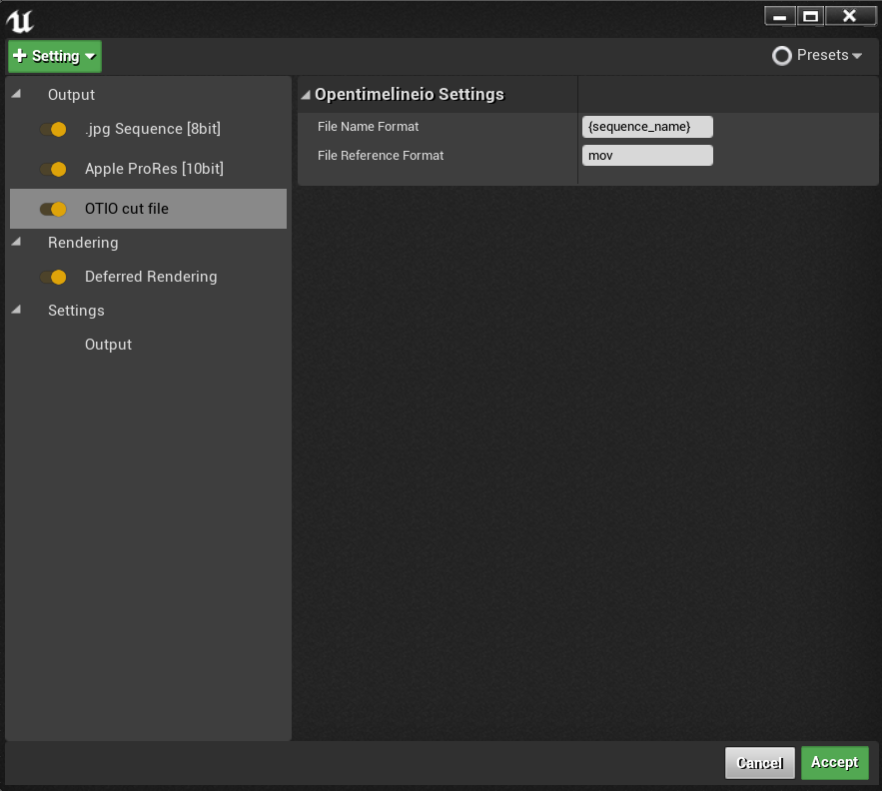
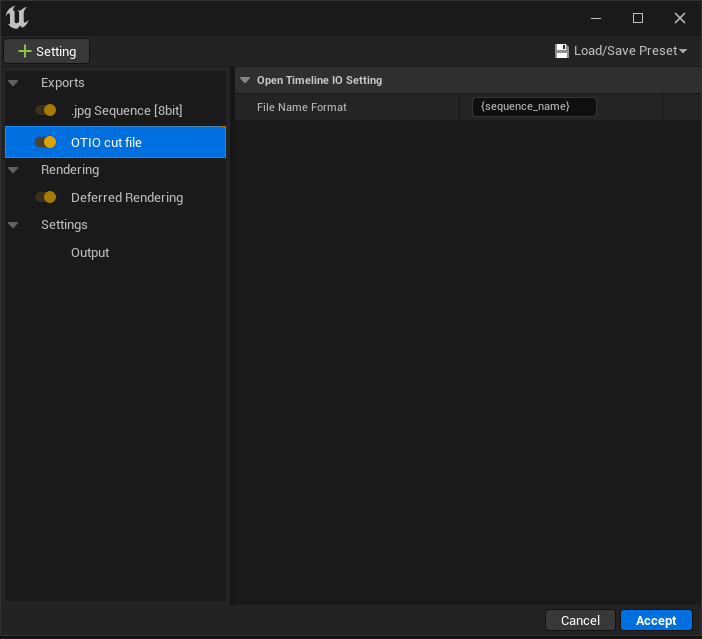
Align functionality with UE5 FCP exporter.

diff --git a/RenderQueueOtioOption/Source/RenderQueueOtioOption/Private/OtioMoviePipelineSetting.cpp b/RenderQueueOtioOption/Source/RenderQueueOtioOption/Private/OtioMoviePipelineSetting.cpp
@@ -1,4 +1,4 @@
-
+// UE5 OTIO Movie Pipeline setting.
 #include "OtioMoviePipelineSetting.h"
 #include "MoviePipeline.h"
 #include "MoviePipelineOutputSetting.h"
@@ -27,15 +27,37 @@
 
 namespace otio = opentimelineio::OPENTIMELINEIO_VERSION;
 
+FString GetPreferredFormat(const TArray<FString>& Extensions)
+{
+	// Format extensions in order of preference
+	const TArray<FString> PreferredFormats = {
+		TEXT("MXF"),
+		TEXT("MOV"),
+		TEXT("AVI"),
+		TEXT("EXR"),
+		TEXT("PNG"),
+		TEXT("JPEG"),
+		TEXT("JPG")
+	};
+
+	for (const FString& Format : PreferredFormats)
+	{
+		if (Extensions.Contains(Format))
+		{
+			return Format;
+		}
+	}
+
+	return Extensions[0]; // If we didn't find a preferred format, use the first one
+}
+
 
 void UMoviePipelineOtioExporter::BeginExportImpl()
 {
 	UE_LOG(LogMovieRenderPipeline, Log, TEXT("Running OtioMoviePipelineSetting OTIO export"));
 	bHasFinishedExporting = true;
 
-	UMoviePipeline* pipeline = GetPipeline();
-	UMoviePipelineExecutorJob* job = pipeline->GetCurrentJob();
-	UMoviePipelineOutputSetting* outputSetting = pipeline->GetPipelineMasterConfig()->FindSetting<UMoviePipelineOutputSetting>();
+	UMoviePipelineOutputSetting* outputSetting = GetPipeline()->GetPipelineMasterConfig()->FindSetting<UMoviePipelineOutputSetting>();
 
 	// Use our file name format ({sequence}), exposed on the setting gui, on the end of the shared common directory.
 	FString fileNameFormatString = outputSetting->OutputDirectory.Path / FileNameFormat;
@@ -69,33 +91,36 @@ void UMoviePipelineOtioExporter::BeginExportImpl()
 	{
 		return;
 	}
-
+	
 	int32 handleFrames = outputSetting->HandleFrameCount;
 	const FMovieSceneExportMetadata& OutputMetadata = GetPipeline()->GetOutputMetadata();
 
 	// construct otio timeline
 	otio::ErrorStatus errorStatus;
-	auto masterSequenceName = std::string(TCHAR_TO_UTF8(*sequence->GetName()));
+	std::string masterSequenceName = std::string(TCHAR_TO_UTF8(*sequence->GetName()));
 
 	// in unreal frames are stored based on the tick interval, and some functions give that value back, 
-	// while others return the FPS frame number. We ned the frame number in relation to the fps rate
+	// while others return the FPS frame number. We need the frame number in relation to the fps rate
 	// so we convert these values in these instances.
-	auto tickResolution = movieScene->GetTickResolution();
-	auto displayRate = movieScene->GetDisplayRate();
-	auto playbackRange = movieScene->GetPlaybackRange();
-	auto startTime = (playbackRange.GetLowerBoundValue() / tickResolution.Numerator) * displayRate.Numerator;
-	auto trackDuration = (playbackRange.GetUpperBoundValue() - playbackRange.GetLowerBoundValue()) / tickResolution.Numerator * displayRate.Numerator;
+	FFrameRate tickResolution = movieScene->GetTickResolution();
+	FFrameRate displayRate = movieScene->GetDisplayRate();
+	FFrameNumberRange playbackRange = movieScene->GetPlaybackRange();
+	FFrameNumber duration = playbackRange.GetUpperBoundValue() - playbackRange.GetLowerBoundValue();
+	float startTimeAsFloat = (float(playbackRange.GetLowerBoundValue().Value) / tickResolution.Numerator) * displayRate.Numerator;
+	float durationAsFloat = duration.Value;
+	float trackDurationAsFloat = (durationAsFloat / tickResolution.Numerator) * displayRate.Numerator;
+	
 
 	// we store the timeline in a container, if we dont do this we run into issues when trying to write out the file.
-	auto otioTimeline = otio::SerializableObject::Retainer<otio::Timeline>(
-		new otio::Timeline(masterSequenceName, otio::RationalTime(startTime.Value / tickResolution.Numerator, displayRate.AsDecimal()))
+	otio::SerializableObject::Retainer<otio::Timeline> otioTimeline = otio::SerializableObject::Retainer<otio::Timeline>(
+		new otio::Timeline(masterSequenceName, otio::RationalTime(startTimeAsFloat))
 	);
-	auto otioTrackTimerange = otio::TimeRange(
-		otio::RationalTime(startTime.Value, displayRate.AsDecimal()),
-		otio::RationalTime(trackDuration.Value, displayRate.AsDecimal())
+	otio::TimeRange otioTrackTimerange = otio::TimeRange(
+		otio::RationalTime(startTimeAsFloat, displayRate.AsDecimal()),
+		otio::RationalTime(trackDurationAsFloat, displayRate.AsDecimal())
 	);
-	auto otioStack = new otio::Stack("master", otioTrackTimerange);
-	auto otioMasterTrack = new otio::Track("master", otioTrackTimerange);
+	otio::Stack* otioStack = new otio::Stack("master", otioTrackTimerange);
+	otio::Track* otioMasterTrack = new otio::Track("master", otioTrackTimerange);
 	if (!otioStack->append_child(otioMasterTrack, &errorStatus))
 	{
 		FString error_message = UTF8_TO_TCHAR(
@@ -105,88 +130,105 @@ void UMoviePipelineOtioExporter::BeginExportImpl()
 	}
 	otioTimeline.value->set_tracks(otioStack);
 
-	for (int i = 0; i < OutputMetadata.Shots.Num(); i++)
+	// UE4 to UE5 regression, Bug report Case # 00618138
+	// the FMovieSceneExportMetadataShot objects in the FMovieSceneExportMetadata no longer contain MovieSceneShotSection info, the attribute it still there but it is a nullptr.
+	// Due to the changes made here, specifically for the XML Exporter:
+	// https://github.com/EpicGames/UnrealEngine/blob/5.3/Engine/Plugins/MovieScene/MovieRenderPipeline/Source/MovieRenderPipelineCore/Private/MoviePipeline.cpp#L261-L274
+	// For now the functionality here mirrors the FCPXML plugin when OutputMetadata option is selected
+	// With exception that it lays out the clips sequantially on the timeline rather than stacked.
+
+	int currentFrame = startTimeAsFloat;
+	int numberOfClips = 0;
+	for (const FMovieSceneExportMetadataShot& Shot : OutputMetadata.Shots)
 	{
-		FMovieSceneExportMetadataShot shot = OutputMetadata.Shots[i];
-		FString shotDisplayName;
-		FFrameNumberRange clipTimerange;
-		otio::TimeRange otioClipTimerange;
-
-		UMovieSceneCinematicShotSection* section = shot.MovieSceneShotSection.Get();
-
-		if (section != nullptr) {
-			clipTimerange = section->GetRange();
-			UE_LOG(LogMovieRenderPipeline, Log, TEXT("Add shot to otio file: %s"), *section->GetShotDisplayName());
-			shotDisplayName = section->GetShotDisplayName();
-			otioClipTimerange = otio::TimeRange(
-				otio::RationalTime(
-					clipTimerange.GetLowerBoundValue().Value / tickResolution.Numerator * displayRate.Numerator,
-					displayRate.AsDecimal()
-				),
-				otio::RationalTime(
-					clipTimerange.GetUpperBoundValue().Value / tickResolution.Numerator * displayRate.Numerator,
-					displayRate.AsDecimal()
-				)
-			);
-		}
-
-		for (auto& clip : shot.Clips)
+		for (const TPair < FString, TMap<FString, FMovieSceneExportMetadataClip> >& Clip : Shot.Clips)
 		{
-			FString clip_outer_name = clip.Key;
-			for (auto& format : clip.Value)
+			const TMap<FString, FMovieSceneExportMetadataClip>& ExtensionList = Clip.Value;
+			if (ExtensionList.Num() > 0)
 			{
-				if (FileReferenceFormat.Compare(format.Key, ESearchCase::IgnoreCase))
+				TArray<FString> Extensions;
+				ExtensionList.GetKeys(Extensions);
+				FString PreferredFormat = GetPreferredFormat(Extensions);
+				check(ExtensionList.Contains(PreferredFormat));
+				const FMovieSceneExportMetadataClip& ClipMetadata = ExtensionList[PreferredFormat];
+				if (ClipMetadata.IsValid())
 				{
-					continue;
-				}
-				FString clipFormat = format.Key;
-				FMovieSceneExportMetadataClip clipMetadata = format.Value;
-				int32 duration = clipMetadata.GetDuration();
-				int32 inFrame = handleFrames;
-				FString shotFilePath = clipMetadata.FileName; // used to be just the filename, now is the entire path.
-				if (section == nullptr)
-				{
-					auto index = shotFilePath.Find(FString("/"), ESearchCase::IgnoreCase, ESearchDir::FromEnd);
-					shotDisplayName = shotFilePath.RightChop(index);
-				}
+					numberOfClips += 1;
+					// Clip metadata
+					int32 Duration = ClipMetadata.GetDuration();
+					FString SectionName = Clip.Key;
+					FString shotFilePath = ClipMetadata.FileName;
 
-				std::string fileNameStr = std::string(TCHAR_TO_UTF8(*shotFilePath));
-				std::string shotDisplayNameStr = std::string(TCHAR_TO_UTF8(*shotDisplayName));
+					// ClipMetadata.FileName is inconsistent, some formats pass full path, some only filename.
+					FString outputDirectory = outputSetting->OutputDirectory.Path;
+					
+					FString* projectDir = tempFormatArgs.FilenameArguments.Find("project_dir");
+					FStringFormatNamedArguments arguments;
+					arguments.Add(TEXT("project_dir"), **projectDir);
+					FString resolvedOutputDirectory = FString::Format(*outputDirectory, arguments);
 
-				auto otioReference = new otio::ExternalReference(fileNameStr);
-				auto otioMediaTimerange = otio::TimeRange(
-					otio::RationalTime(inFrame, displayRate.AsDecimal()), 
-					otio::RationalTime(duration, displayRate.AsDecimal())
-				);
-				otioReference->set_available_range(otioMediaTimerange);
+					if (!shotFilePath.StartsWith(resolvedOutputDirectory)) {
+						shotFilePath = resolvedOutputDirectory / shotFilePath;
+					}
+					shotFilePath = FString("file://") / shotFilePath;
 
-				if (section == nullptr)
-				{
-					otioClipTimerange = otio::TimeRange(
+					// construct otio clip
+					std::string fileNameStr = std::string(TCHAR_TO_UTF8(*shotFilePath));
+					std::string shotDisplayNameStr = std::string(TCHAR_TO_UTF8(*SectionName));
+					shotDisplayNameStr += std::string("_clip") + std::to_string(numberOfClips);
+					otio::ExternalReference* otioReference = new otio::ExternalReference(fileNameStr);
+					otio::TimeRange otioMediaTimerange = otio::TimeRange(
+						otio::RationalTime(currentFrame, displayRate.AsDecimal()),
+						otio::RationalTime(Duration, displayRate.AsDecimal())
+					);
+					otioReference->set_available_range(otioMediaTimerange);
+
+					otio::TimeRange otioClipTimerange = otio::TimeRange(
 						otio::RationalTime(
-							inFrame,
+							currentFrame,
 							displayRate.AsDecimal()
 						),
 						otio::RationalTime(
-							inFrame + duration,
+							Duration,
 							displayRate.AsDecimal()
 						)
 					);
-				}
-				
-				auto otioClip = new otio::Clip(shotDisplayNameStr, otioReference, otioClipTimerange);
+					currentFrame += Duration;
 
-				if (!otioMasterTrack->append_child(otioClip, &errorStatus))
-				{
-					FString errorMessage = UTF8_TO_TCHAR(
-						(otio::ErrorStatus::outcome_to_string(errorStatus.outcome) + ": " + errorStatus.details).c_str()
-					);
-					UE_LOG(LogMovieRenderPipeline, Error, TEXT("OTIO Error: %s"), *errorMessage);
+					otio::Clip* otioClip = new otio::Clip(shotDisplayNameStr, otioReference, otioClipTimerange);
+					// Add clip to timeline
+					if (!otioMasterTrack->append_child(otioClip, &errorStatus))
+					{
+						FString errorMessage = UTF8_TO_TCHAR(
+							(otio::ErrorStatus::outcome_to_string(errorStatus.outcome) + ": " + errorStatus.details).c_str()
+						);
+						UE_LOG(LogMovieRenderPipeline, Error, TEXT("OTIO Error: %s"), *errorMessage);
+					}
+
 				}
 			}
 		}
-			
 	}
+
+	// For potential future "Sequencer" option - would not use any info from movie render queue export
+	//const UMovieSceneSubTrack* SubTrack = Cast<const UMovieSceneSubTrack>(shotTrack);
+	//if (SubTrack)
+	//{
+	//	for (UMovieSceneSection* Section : SubTrack->GetAllSections())
+	//	{
+	//		FMovieSceneFrameRange section_range = Section->SectionRange;
+	//		TRange< FFrameNumber > meow = section_range.Value;
+	//		UMovieSceneSubSection* SubSection = Cast<UMovieSceneSubSection>(Section);
+	//		UMovieSceneSequence* SubSequence = SubSection ? SubSection->GetSequence() : nullptr;
+	//		if (SubSequence && Section->IsActive())
+	//		{
+	//			UMovieSceneCinematicShotSection* ShotSection = Cast<UMovieSceneCinematicShotSection>(Section);
+	//			FString DisplayString = ShotSection ? ShotSection->GetShotDisplayName() : SubSequence->GetName();
+	//			// Add implementation here...
+	//		}
+	//	}
+	//}
+
 
 	// write out otio file
 	std::string otioFilePathStr = std::string(TCHAR_TO_UTF8(*FilePath));

diff --git a/RenderQueueOtioOption/Source/RenderQueueOtioOption/Public/OtioMoviePipelineSetting.h b/RenderQueueOtioOption/Source/RenderQueueOtioOption/Public/OtioMoviePipelineSetting.h
@@ -31,8 +31,6 @@ public:
 	/** What format string should the final files use? Can include folder prefixes, and format string ({sequence_name}, etc.) */
 	UPROPERTY(EditAnywhere, BlueprintReadWrite, Category = "OpenTimelineIO Setting")
 		FString FileNameFormat;
-	UPROPERTY(EditAnywhere, BlueprintReadWrite, Category = "OpenTimelineIO Setting")
-		FString FileReferenceFormat = "jpeg";
 
 protected:
 	/** The file to write to */

diff --git a/README.md b/README.md
@@ -2,8 +2,28 @@
 Otio exporter option, plugin for the movie render queue.
 Currently only windows is supported, but could easily be extended if you compile opentimelineio for your target platform and add the dependencies.
 
-To use this plugin simply add it to your project and compile the project.
-Now you should have this option available in the movie render queue.
+## Unreal Engine 5 Release
+
 ![Screenshot](docs/screenshot.png)
-Use the first field to specify the name of the otio file.
-Use the second field to specify which file extensions to use as references in the otio file, this is useful if you're outputting multiple extensions (e.g. jpeg and mov) but only want e.g. the mov file referenced.
+
+There has unfortunately been some regression in functionality with the port from Unreal 4 to Unreal 5.
+
+Bug report Case # 00618138
+
+The FMovieSceneExportMetadataShot objects in the FMovieSceneExportMetadata no longer contain MovieSceneShotSection info, the attribute it still there but it is a nullptr.
+This is due to the changes made here:
+
+https://github.com/EpicGames/UnrealEngine/blob/5.3/Engine/Plugins/MovieScene/MovieRenderPipeline/Source/MovieRenderPipelineCore/Private/MoviePipeline.cpp#L261-L274
+
+This means we no longer have any way of mapping which clip in the metadata corresponds to which section in the master sequence.
+
+For now the functionality in the Unreal 5 version of the OTIO export setting mirrors the FCPXML plugin when the "OutputMetadata" option is selected.
+With exception that it lays out the clips sequantially on the timeline rather than stacked.
+
+![Screenshot](docs/plugins.png)
+
+Additionally the plugin has now been split in two; 
+- OpenTimelineIO
+- RenderQueueOtioOption
+So if you'd like to use the OpenTimelineIO porton you can simply only use that plugin and exclude the RenderQueueOtioOption.
+The OpenTimelineIO plugin contains the compiled libraries from the main branch up to commit hash eaf8569c1bdbea8bff568f063acb5318db9b7d15.
